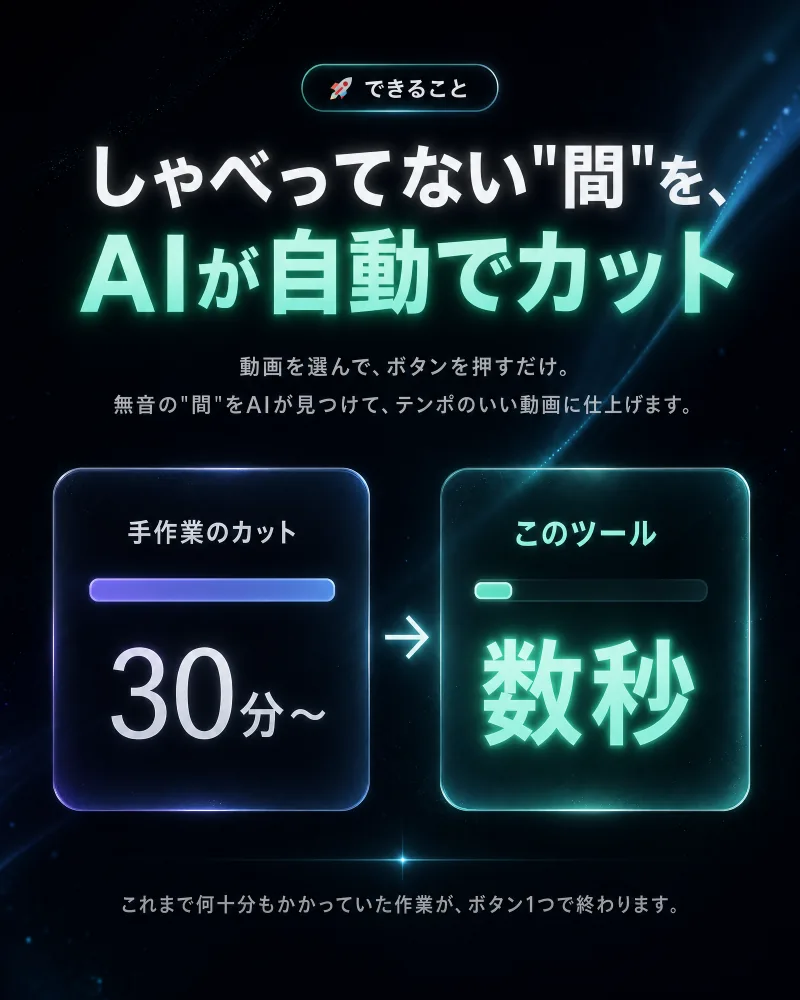
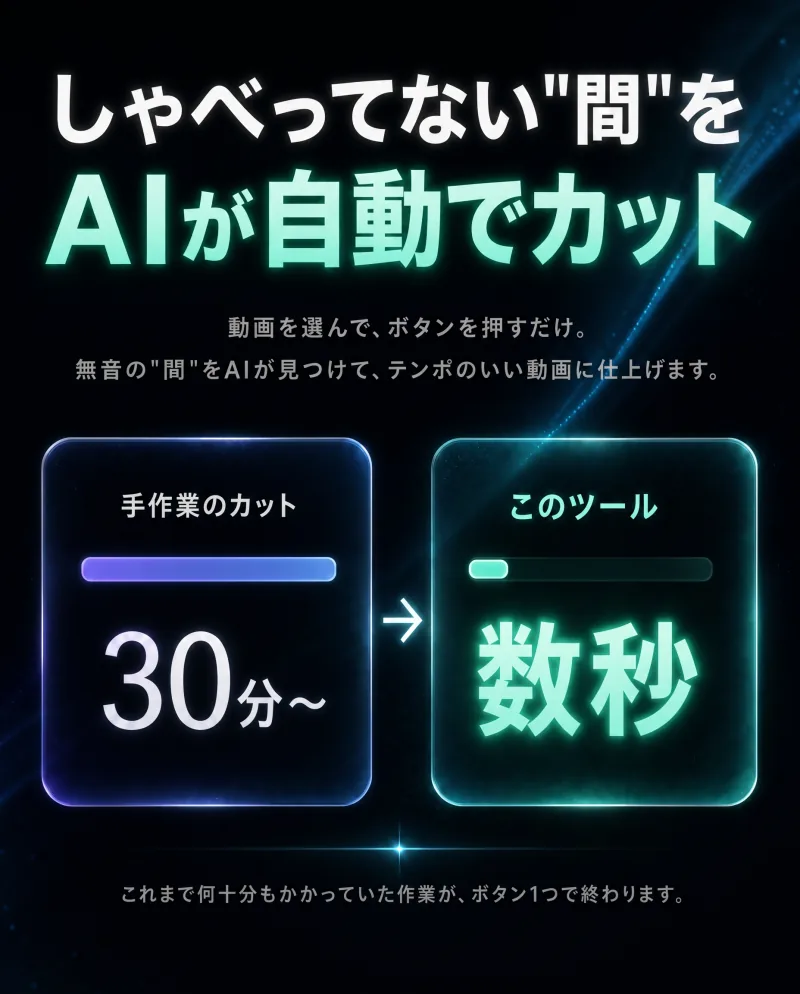
feat(tool.html): 人肌感テキスト追加(左揃え太字)/使い方を簡素化&はじめての方バッジ削除/解放ボタンを入力欄下に/AIカットバナー画像差し替え(Image1)

diff --git a/tool.html b/tool.html
@@ -405,6 +405,17 @@
   .wcard .wt .hl{background:linear-gradient(100deg,#ffd54a,#ff8a3d);-webkit-background-clip:text;background-clip:text;-webkit-text-fill-color:transparent;color:transparent}
   .wcard .wd{font-size:12.5px;color:#cbd5e6;margin-top:5px;line-height:1.65}
 
+  /* 人肌感（左揃え・太字の一言）*/
+  .human{margin:26px 4px 8px;text-align:left}
+  .human p{font-size:16px;font-weight:800;line-height:1.95;color:#eef2f8;margin:0 0 14px;letter-spacing:.01em}
+  .human p:last-child{margin-bottom:0}
+  .human strong{color:#37efc0;font-weight:900}
+
+  /* 解放ボタンを入力欄の下に（枠内に収める）*/
+  .lock .pw{display:block}
+  .lock .pw input{width:100%}
+  .lock .pw .unlock{display:block;width:100%;margin-top:10px;padding:13px 16px;font-size:14px}
+
   /* フッター法務リンク */
   footer .legal{margin:0}
   footer .legal a{color:#8aa3bd;text-decoration:underline;font-size:11.5px}
@@ -419,32 +430,39 @@
     <img class="hero-fv" src="assets/hero-kakumei.webp" alt="動画編集に革命 自動カットツール無料配布">
   </header>
 
+  <!-- 人肌感（あえて手書き風の一言）-->
+  <section class="human">
+    <p>どうも、カズマルです👋</p>
+    <p>いきなりですが……<br>このツール、<strong>なんとこんなことができます。</strong></p>
+    <p>スマホに動画を入れて、ボタンをポチッ。<br>それだけで、しゃべってない“間”が勝手に消えて、テンポのいい動画になるんです。</p>
+    <p>「え、それだけ？」って思いますよね。<br><strong>はい、それだけなんです。</strong>まずは下で試してみてください👇</p>
+  </section>
+
   <!-- ② ツールのすごさ（バナー画像）-->
   <img class="sec-banner" src="assets/lp-banner-cut.webp" alt="しゃべってない“間”を、AIが自動でカット。手作業30分→数秒。ボタン1つで終わります" loading="lazy">
 
-  <!-- はじめての方へ｜使い方ガイド -->
+  <!-- かんたん使い方 -->
   <section class="guide">
-    <div class="guide-h"><span class="g-badge">はじめての方へ</span>かんたん使い方</div>
-    <p class="guide-lead">動画編集はまったくの初めてでも大丈夫。<strong style="color:#fff">スマホだけ・3ステップ</strong>で試せます。まずはお試し用の動画をダウンロードするところから。</p>
+    <div class="guide-h">かんたん使い方</div>
+    <p class="guide-lead"><strong style="color:#fff">スマホだけ・3ステップ。</strong>まずはお試し動画のダウンロードから👇</p>
     <ol class="gsteps">
       <li>
-        <div class="gt">まずは「サンプル動画」を保存する</div>
-        <div class="gd">自分で撮った動画がなくてもOK。下のボタンを押すと、お試し用の動画（人がしゃべっている動画）がスマホに保存されます。</div>
+        <div class="gt">サンプル動画を保存</div>
+        <div class="gd">自分の動画がなくてもOK。下のボタンから保存できます。</div>
         <a class="g-dl" href="https://drive.google.com/uc?export=download&id=1-NhC1hDIHl6HjTSZGTSnB_SEe7BdBvOS" target="_blank" rel="noopener">⬇ サンプル動画をダウンロード</a>
-        <div class="ghint">※すでに自分の動画がある方は、このステップは飛ばしてOKです</div>
       </li>
       <li>
         <div class="gt">動画を読み込む</div>
-        <div class="gd">下の<strong style="color:#fff">「タップして動画を選択」</strong>を押して、いま保存した動画（または自分の動画）を選びます。カメラロールから選ぶだけ。</div>
+        <div class="gd">「タップして動画を選択」からカメラロールで選ぶだけ。</div>
         <img class="gshot" src="assets/guide-select.webp" alt="タップして動画を選択する画面" loading="lazy">
       </li>
       <li>
-        <div class="gt">ボタンを押すだけで自動カット</div>
-        <div class="gd"><strong style="color:#fff">「自動カットを解析する」</strong>を押すと、しゃべっていない“間（無音）”をAIが自動で見つけてカットします。<strong style="color:#fff">「カット版を再生」</strong>を押すと、カット後の仕上がりをその場で確認できます（緑＝残す／暗＝カットした部分）。</div>
+        <div class="gt">ボタンを押すだけ</div>
+        <div class="gd">「自動カットを解析する」→「カット版を再生」で仕上がりを確認（緑＝残す／暗＝カット）。</div>
         <img class="gshot" src="assets/guide-result.webp" alt="自動カット結果の画面" loading="lazy">
       </li>
     </ol>
-    <div class="guide-foot">それでは、さっそく下のツールで試してみましょう<span class="arw">↓</span></div>
+    <div class="guide-foot">さっそく下で試してみましょう<span class="arw">↓</span></div>
   </section>
 
 